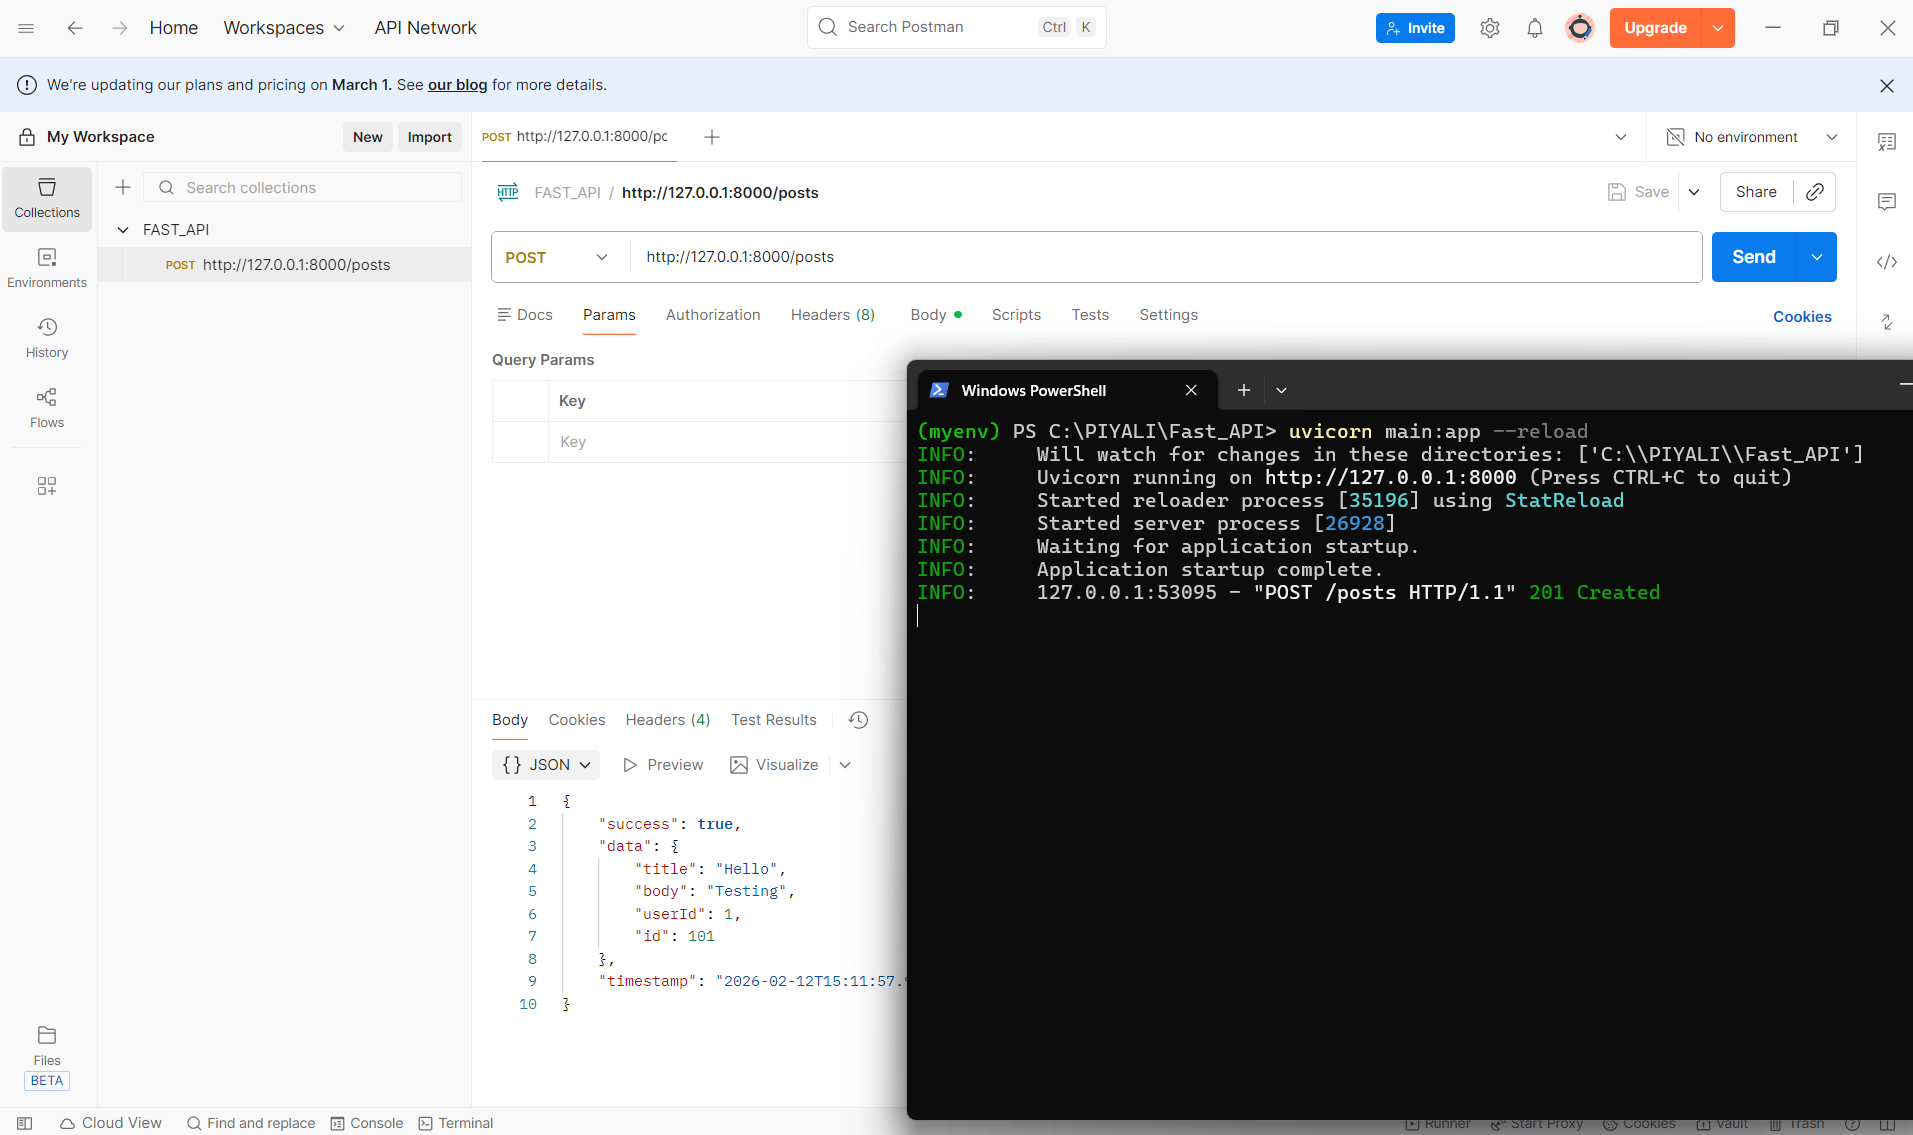
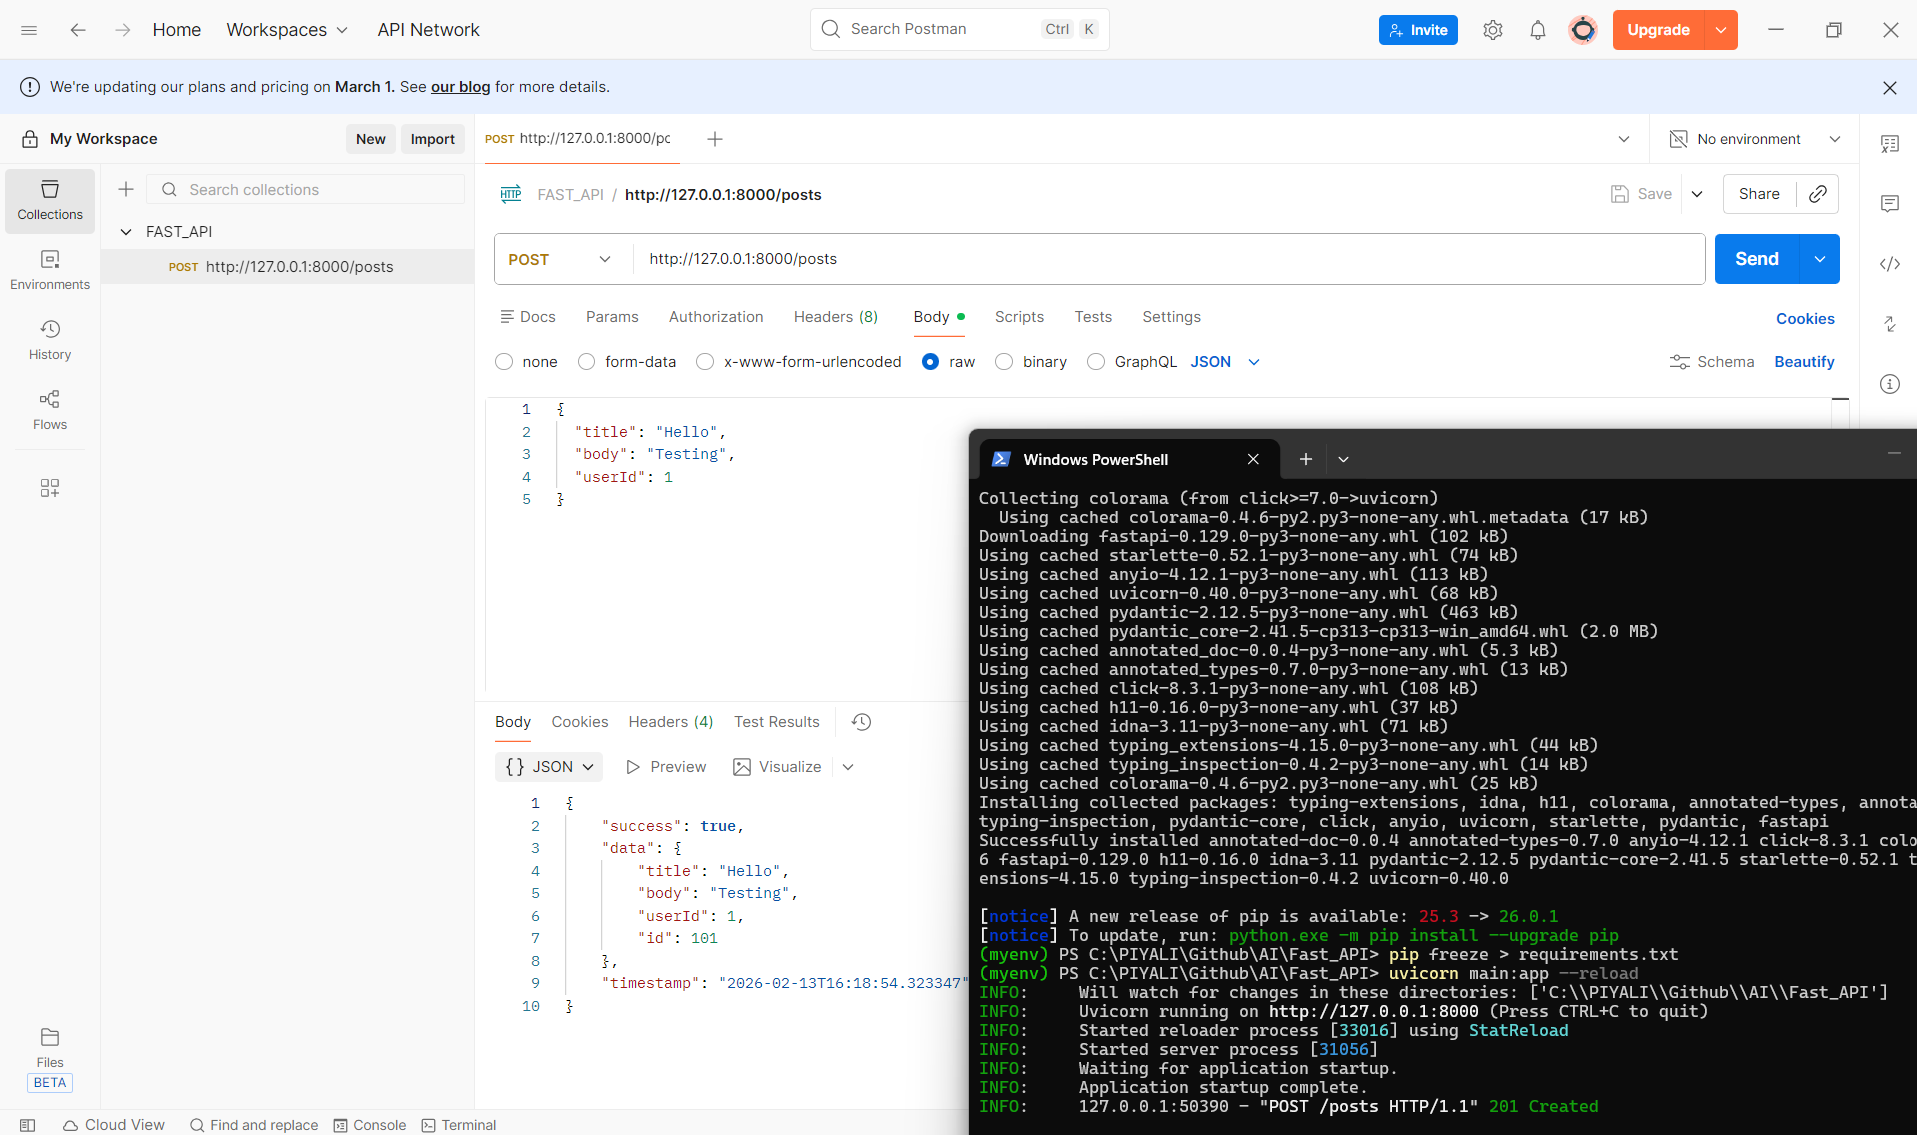
requirements + readme

diff --git a/Fast_API/README.md b/Fast_API/README.md
@@ -12,6 +12,16 @@ This updates OpenAPI spec and Swagger UI dynamically.
 | GET /docs   | Swagger UI             |
 | POST /posts | Works                  |
 
+✅ Postman acts as the client.  
+✅ FastAPI acts as the backend API server.
+
+
+## 🔥 Postman Triggers FastAPI - How This Works Internally
+    -   Postman sends HTTP request
+    -   FastAPI receives request
+    -   FastAPI validates data (Pydantic)
+    -   Your function runs
+    -   JSON response is returned to Postman
 
 # 👨💻 After CLoning Repo
 
